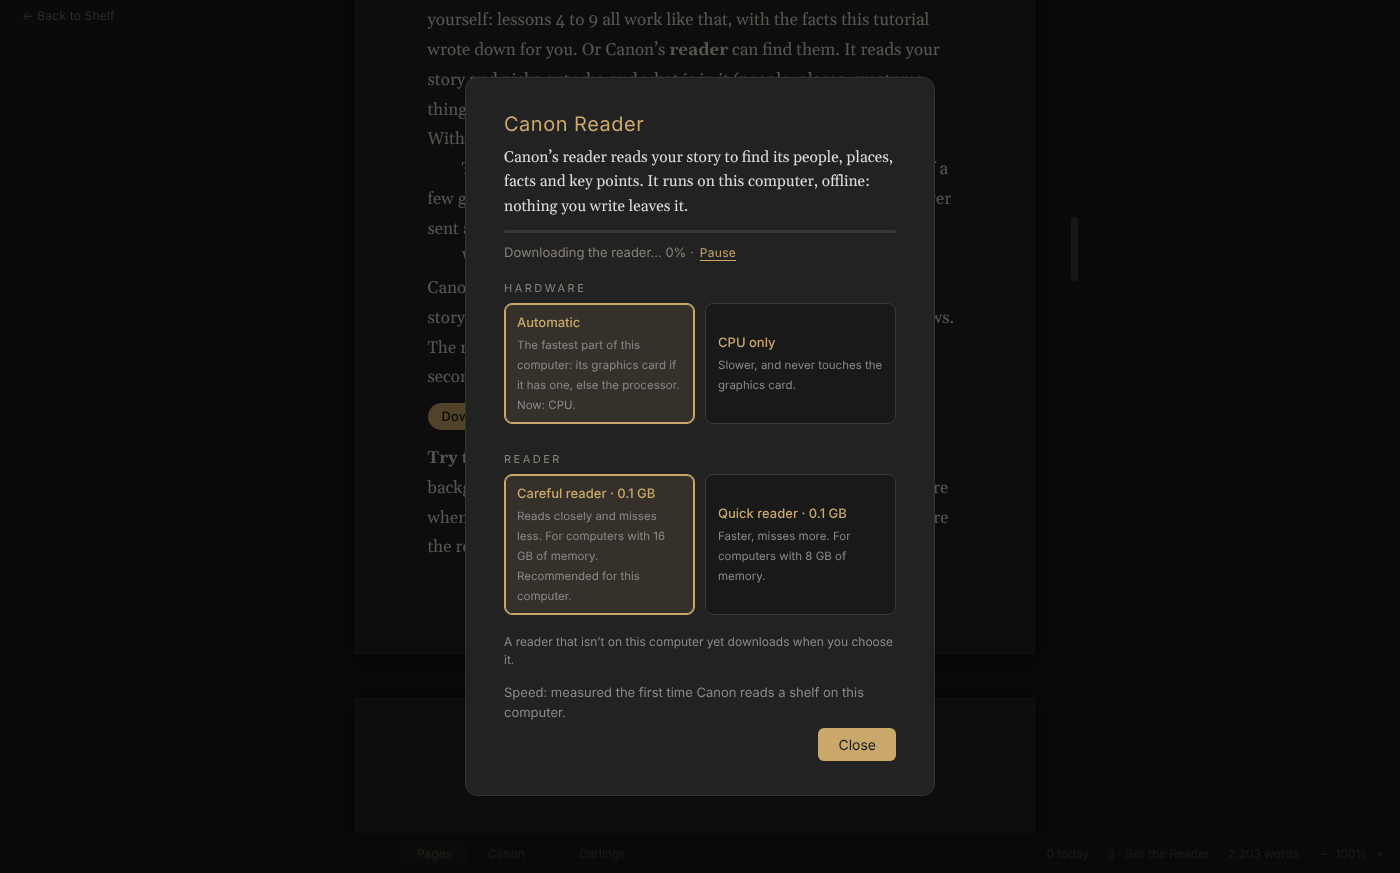
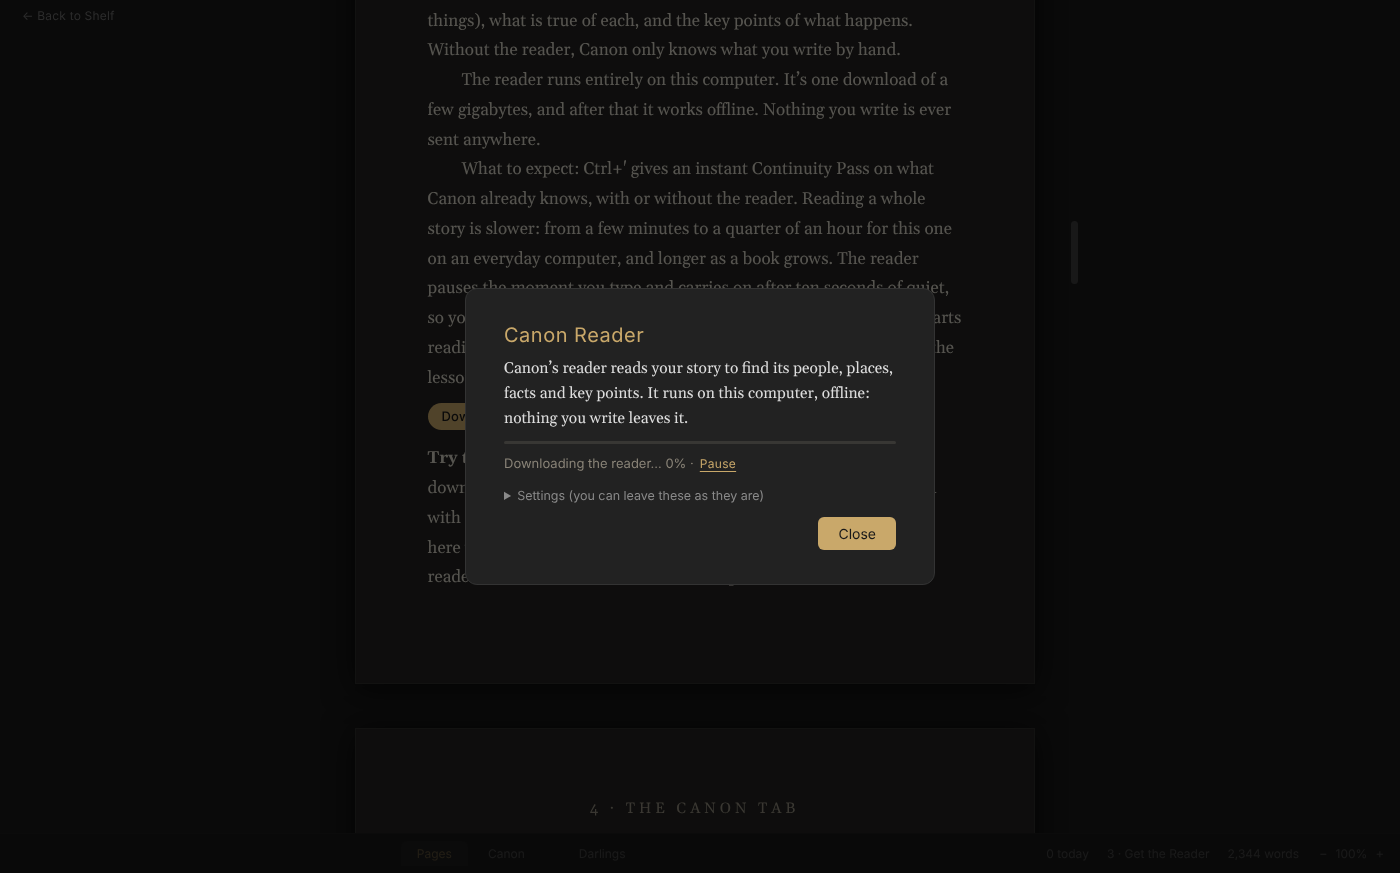
Tutorial text matches the screen; e2e for the failed reader and undo; screens; docs
Lesson 3 says Canon waits for lesson 10 here and how long reading takes;
lesson 4 notes the tab can quote Chapter 3; lesson 7 follows the entry's
Edit → Change It Across the Series? route; lesson 8 says where to type.

Claude-Session: https://claude.ai/code/session_01Uymcuup9eK8coCqa1NBqGH

diff --git a/scripts/canon.e2e.js b/scripts/canon.e2e.js
@@ -326,6 +326,8 @@ test('the reader, always findable: Reader ready · CPU at the top of an entry; H
   assert.deepEqual(await js(`[...document.querySelectorAll('#canon-reader .fr-choice.sel strong')].map((b) => b.textContent)`), ['Automatic', (tier === 'careful' ? 'Careful' : 'Quick') + ' reader · 0.1 GB']);
   assert.match(await js(`document.querySelector('#canon-reader').textContent`), /Now: CPU\./);
   assert.match(await js(`document.querySelector('#canon-reader .rs-speed').textContent`), /^Measured here: the reader reads about [\d,]+ words a minute\.$/);
+  await js(`document.querySelector('#canon-reader .rs-more').open = true`);
+  await tick(150);
   await shot('canon-reader-settings.png');
   // CPU only is kept in settings.json, and Automatic takes it away again
   await js(`[...document.querySelectorAll('#canon-reader .fr-choice')].find((b) => b.textContent.startsWith('CPU only')).click()`);
@@ -340,7 +342,16 @@ test('the reader, always findable: Reader ready · CPU at the top of an entry; H
   await until(`!!document.querySelector('#canon-reader')`);
   await js(`document.querySelector('#canon-reader .rs-close').click()`);
   await until(`!document.querySelector('#canon-reader')`);
+  // a reader that couldn't start here: said in one line, Try Again and Reader settings, never a dead end
+  await js(`canon.reader.failed = { tier: canon.reader.installed }; canonReaderRedraw()`);
+  await until(`/^The reader couldn’t start on this computer\. Try AgainReader settings$/.test(document.querySelector('#canon-view .cn-reader-line').textContent)`);
   await js(`canonShown = null; renderCanon()`);
+  await until(`!!document.querySelector('#canon-view .cn-failed')`);
+  assert.deepEqual(await js(`[...document.querySelectorAll('#canon-view .cn-failed button')].map((b) => b.textContent)`), ['Try Again', 'Reader settings']);
+  await tick(200);
+  await shot('canon-reader-failed.png');
+  await js(`document.querySelector('#canon-view .cn-failed button').click()`);
+  await until(`!canon.reader.failed && !!document.querySelector('#canon-view .cn-read')`);
 });
 
 const chapterFiles = () => ['c1', 'c2', 'c3'].map((c) => fs.readFileSync(path.join(LIB, SALT, 'chapters', c + '.html'), 'utf8'));
@@ -1209,6 +1220,8 @@ part('tutorial', 'lesson 3: Get the Reader, its button in the page starts the do
   await js(`[...document.querySelectorAll('#canon-view .cn-reader-line button')].find((b) => b.textContent === 'Pause').click()`);
   await until(`/^The reader’s download is paused at \\d+% · Resume/.test(document.querySelector('#canon-view .cn-reader-line')?.textContent)`);
   assert.equal(await js(`canonRdr.installed`), null);
+  // the Tutorial's Canon isn't read when the reader arrives: its lessons say when
+  assert.equal(await js(`canonIsTutorial() && !canonAutoRead()`), true);
 });
 
 part('tutorial', 'lessons 4 and 5, no reader: Juniper\'s source opens Chapter 1 lit; Hesketh\'s Story so far; ⌘\' finds the three slips, two fixed, one Not a slip', async () => {
@@ -1268,8 +1281,11 @@ part('tutorial', 'lessons 7 and 8, no reader: Juniper made a stallion through a 
   assert.ok(await js(`canonReview.items.some((x) => x.span === 'her' && x.to === 'his')`));
   await js(`[...[...document.querySelectorAll('#canon-side .cs-review')][0].querySelectorAll('button')].find((b) => b.textContent === 'Apply').click()`);
   await until(`canonReview.items[0].state === 'applied'`);
-  await js(`document.execCommand('undo')`);
+  // ⌘Z from the Canon tab: the words go back, and the card says so again
+  await js(`switchTab('canon')`);
+  await js(`structuralUndo()`);
   await until(`canonReview.items[0].state === 'todo'`);
+  if (await js(`currentTab !== 'manuscript'`)) await js(`switchTab('manuscript')`);
   await js(`[...document.querySelectorAll('#canon-side button')].find((b) => b.textContent === 'Stop Reviewing').click()`);
   await until(`!canonReview`);
   await js(`switchTab('canon')`);

diff --git a/tutorial/start-here/chapters/l03.html b/tutorial/start-here/chapters/l03.html
@@ -1,5 +1,5 @@
 <p>Canon can know your world in two ways. You can write its facts down yourself: lessons 4 to 9 all work like that, with the facts this tutorial wrote down for you. Or Canon’s <b>reader</b> can find them. It reads your story and picks out who and what is in it (people, places, creatures, things), what is true of each, and the key points of what happens. Without the reader, Canon only knows what you write by hand.</p>
 <p>The reader runs entirely on this computer. It’s one download of a few gigabytes, and after that it works offline. Nothing you write is ever sent anywhere.</p>
-<p>What to expect: ⌘' gives an instant Continuity Pass on what Canon already knows, with or without the reader. Reading a whole story is slower: a few minutes for this one, and longer as a book grows. The reader pauses the moment you type and carries on after ten seconds of quiet, so you can keep writing all the while.</p>
+<p>What to expect: ⌘' gives an instant Continuity Pass on what Canon already knows, with or without the reader. Reading a whole story is slower: from a few minutes to a quarter of an hour for this one on an everyday computer, and longer as a book grows. The reader pauses the moment you type and carries on after ten seconds of quiet, so you can keep writing all the while. On your own shelves Canon starts reading as soon as the reader arrives; here it waits for lesson 10, so the lessons in between find the world as they describe it.</p>
 <p class="flush"><a href="neo:reader">Download the reader</a></p>
-<p class="flush"><b>Try this:</b> click <b>Download the reader</b>. It carries on in the background while you work through the next lessons; come back here when it’s done. The line at the top of the Canon tab always says where the reader stands, and Help → Canon Reader… shows it too.</p>
+<p class="flush"><b>Try this:</b> click <b>Download the reader</b>. A small window shows the download; its settings can be left as they are, so close it and carry on with lesson 4. The download goes on in the background; come back here when it’s done. Help → Canon Reader… always says where the reader stands, and so will a line at the top of the Canon tab.</p>

diff --git a/tutorial/start-here/chapters/l07.html b/tutorial/start-here/chapters/l07.html
@@ -1,4 +1,4 @@
 <p>Sometimes the slip is the fact. You decide Juniper should have been a stallion all along. Canon can find every line that says otherwise, across every book on the shelf, and let you change them one at a time.</p>
-<p>Hover a slip about Juniper and choose <b>Juniper is now male…</b>, or change the fact on Juniper’s entry. Canon asks which word you mean (stallion, gelding, colt, or just male), then shows a review list: each passage, with the change marked. Apply it, Skip it, or Edit… to put it in your own words. Lines that need more than a word swapped say so, and wait for you.</p>
+<p>On the Canon tab, open Juniper and hover the fact <b>Sex: female (mare)</b>. Choose <b>Edit</b>, change it to <i>Sex: stallion</i> and press Enter. Canon asks <b>Change It Across the Series?</b>: <b>Find Passages</b> shows a review list in the right-hand pane, each passage with the change marked; <b>Just Change the Fact</b> leaves the books alone. In the list, Apply a change, Skip it, or Edit… to put it in your own words. Lines that need more than a word swapped say so, and wait for you. (A slip about Juniper, when there is one, offers the same from its popover: <b>Juniper is now male…</b>)</p>
 <p>Before the first change in each book, NEO takes a snapshot. ⌘Z undoes a change; Darlings → Snapshots brings back the whole book as it was.</p>
-<p class="flush"><b>Try this:</b> make Juniper a stallion. Apply one change, Skip one, then press ⌘Z and watch the change come back to the list.</p>
+<p class="flush"><b>Try this:</b> make Juniper a stallion. Apply one change, Skip one, then press ⌘Z and watch the change you applied come back to the list.</p>

diff --git a/tutorial/start-here/chapters/l04.html b/tutorial/start-here/chapters/l04.html
@@ -1,5 +1,5 @@
 <p class="flush"><b>Before this lesson,</b> read Chapter 2 of <i>Across the Saltings</i>. It’s short. Then come back.</p>
-<p>Every book has a Canon tab at the bottom of the window, between Outline and Darlings. On this shelf it holds six entries already: Wren Calloway, Juniper, Hesketh, Ballast, Marrowby and the Saltings. No reader needed: the tutorial wrote them down for you.</p>
+<p>Every book has a Canon tab at the bottom of the window, just before Darlings. On this shelf it holds six entries already: Wren Calloway, Juniper, Hesketh, Ballast, Marrowby and the Saltings. No reader needed: the tutorial wrote them down for you. (Canon knows the whole story, so an entry may quote Chapter 3 as well. If you’d rather not peek, finish the story first.)</p>
 <p>The entries are listed in the pane on the left, by kind, and the pane on the right holds Needs You and a small map of the world. On the Canon tab both stay open; the small circle at the top of a pane unpins it. Click an entry and the page shows its facts. The dot beside a fact says how far to trust it: filled when Canon checked it against its source, hollow when it hasn’t yet, a pen nib when you wrote it yourself.</p>
 <p>Under each fact is its source, the exact words from the story. Click a source and NEO opens that chapter with the words lit.</p>
 <p>Below the facts, <b>Story so far</b> lists what has happened to them, a line for each key point with its passage, in reading order. The reader writes these as it reads; a few came with the tutorial.</p>

diff --git a/tutorial/start-here/chapters/l08.html b/tutorial/start-here/chapters/l08.html
@@ -2,4 +2,4 @@
 <p>In an entry, the part called <b>In my words</b> is yours alone; Canon never writes there. Type a name in double square brackets, like [[Juniper]], and it becomes a link. The entry it points to lists the link under <b>Linked from</b>. Below that, <b>Mentioned in</b> lists every passage that names the entry, in reading order.</p>
 <p>A link to a name with no entry yet is underlined with dots. Click it to make the entry.</p>
 <p>While you write, the right-hand pane shows <b>In this chapter</b>: who and what the chapter names, with the people in the paragraph you’re writing picked out.</p>
-<p class="flush"><b>Try this:</b> open Wren Calloway’s entry and, under In my words, type: <i>Carries a letter for [[Odile Fenn]].</i> Click the new link and make an entry for her.</p>
+<p class="flush"><b>Try this:</b> open Wren Calloway’s entry. Under <b>In my words</b> there is a line already; click at the very end of it, press Enter, and type: <i>Carries a letter for [[Odile Fenn]].</i> Click the new link and make an entry for her. (If Odile already has one, the link simply opens it.)</p>

diff --git a/AGENTS.md b/AGENTS.md
@@ -52,8 +52,8 @@ A shelf can keep a Canon: its people, places, creatures and rules, each fact cit
 - Outside the library, in Electron `userData`: `models/` (the downloaded reader) and `canon-cache/<canonId>/index.json`, this device's cache of the reader's proposals and answers per paragraph, so an unchanged paragraph isn't asked again. It is never in the library; deleting it costs only a slower next reading.
 - The Canon tab shows on every book. On a shelf without a Canon it is an offer (`canonInvite`: Keep a Canon for “{shelf}”, and Open the Tutorial). On a shelf that keeps one, both panes open pinned (entries left, Needs You and the map right) until the writer unpins one there: `panePins`, kept per device in `localStorage` `neo-pinned-panes` as `canonNav`/`canonSide`, apart from the Manuscript's own `nav`/`side` (which stay hover-hidden by default). Needs You shows without a reader too.
 - The reader is always findable (`canonRdr`, READER section in CANON): a line at the top of every Canon page (`canonReaderLine`: No reader yet — Download (n GB) / Downloading… n% · Pause / Reader ready · {device}, and Reader settings), Help → Canon Reader… (`showCanonReader`, also found by ⌘K), and in a pass's pane, when it checked less for want of one, `canonPassReader` (Some checks need the reader. Download it…). A page link `<a href="neo:reader">` (the Tutorial's) starts the download and shows that window; `captureBody` keeps it.
-- Hardware: `canon-worker.js` asks node-llama-cpp for `gpu: 'auto'` (Metal on Apple silicon, CUDA or Vulkan elsewhere, else the CPU) and `gpuLayers: 'auto'`; a GPU that won't start or a model that won't fit falls back to the CPU and main logs it. `probe` reports the backend, device names and VRAM, kept in `settings.json` `readerDevice` (probed the first time the reader's status is asked, never at launch). Reader settings keep `readerHardware` ('cpu' for CPU only; Automatic is the default) and `readerChoice` (careful/quick; a choice not on disk is downloaded). `readerPick` in `main.js` recommends: a GPU with 6 GB or Apple silicon with 16 GB → careful, else by memory. Packaging leaves out the CUDA prebuilts (181–358 MB each); NVIDIA cards run through Vulkan, which ships on Windows and Linux; Metal is in the mac binary.
-- Welcome and Tutorial (WELCOME AND THE TUTORIAL in `app.js`): the welcome sheet shows once per computer on the shelf at launch (`settings.json` `canonWelcome`, `welcome:seen`). `tutorial:open` in `main.js` copies `tutorial/` (a story, the Start Here notebook, a pre-built Canon) under new ids, filling `@LESSONS@`/`@STORY@`/`@SHELF@` and writing ⌘ keys as Ctrl+ off macOS; the window adds the shelf (`shelf.tutorial` holds its two book ids). Opened again, the same shelf; afresh, the old one's books leave the shelves whole. `scripts/tutorial.test.js` holds the story to its three seeded slips and the lessons to the story's pace: Chapter 1 with lesson 2, Chapter 2 before lesson 4, Chapter 3 before lesson 5 (the pass), so no lesson uses a chapter not yet read. Lesson 3 (Get the Reader) and lesson 10 carry the `neo:reader` button; every other Try this works without a reader, and the e2e's `tutorial` part walks them. Quiet checks run without a reader too, on the facts kept by hand.
+- Hardware: `canon-worker.js` asks node-llama-cpp for `gpu: 'auto'` (Metal on Apple silicon, CUDA or Vulkan elsewhere, else the CPU) and `gpuLayers: 'auto'`; a GPU that won't start or a model that won't fit falls back to the CPU and main logs it. `probe` reports the backend, device names and VRAM, kept in `settings.json` `readerDevice` (probed the first time the reader's status is asked, never at launch). Reader settings keep `readerHardware` ('cpu' for CPU only; Automatic is the default) and `readerChoice` (careful/quick; a choice not on disk is downloaded). `readerPick` in `main.js` recommends: a GPU with 6 GB or Apple silicon with 16 GB → careful; on the processor alone → quick (8 GB and up), because in Electron's processes Chromium's allocator refuses one block over 2 GiB and the careful reader's CPU weights need one (the worker dies, exit 5; plain Node loads it). A reader that can't start (`canonLoadModel`: Automatic tried, then the CPU once) is kept as `readerFailed` in `settings.json`: passes and quiet checks run without it (`readerFailed: true` in the answer, a line in the pane), Read the Shelf says so with Try Again and Reader settings, and nothing tries it again until Try Again or a settings change. Packaging leaves out the CUDA prebuilts (181–358 MB each); NVIDIA cards run through Vulkan, which ships on Windows and Linux; Metal is in the mac binary.
+- Welcome and Tutorial (WELCOME AND THE TUTORIAL in `app.js`): the welcome sheet shows once per computer on the shelf at launch (`settings.json` `canonWelcome`, `welcome:seen`). `tutorial:open` in `main.js` copies `tutorial/` (a story, the Start Here notebook, a pre-built Canon) under new ids, filling `@LESSONS@`/`@STORY@`/`@SHELF@` and writing ⌘ keys as Ctrl+ off macOS; the window adds the shelf (`shelf.tutorial` holds its two book ids). Opened again, the same shelf; afresh, the old one's books leave the shelves whole. `scripts/tutorial.test.js` holds the story to its three seeded slips and the lessons to the story's pace: Chapter 1 with lesson 2, Chapter 2 before lesson 4, Chapter 3 before lesson 5 (the pass), so no lesson uses a chapter not yet read. Lesson 3 (Get the Reader) and lesson 10 carry the `neo:reader` button; the reader arriving never starts Read the Shelf on the Tutorial's shelf (`canonAutoRead`), so lessons 4–9 find its world as written; every other Try this works without a reader, and the e2e's `tutorial` part walks them. Quiet checks run without a reader too, on the facts kept by hand.
 - First said, first kept (`firstCome` in `canon.js`, ACCURACY.md): a proposal that gets through the gates (verbatim quote, value word in it, entity tied by rule or by the reader's double answer) is checked without asking; the first value in reading order wins, the writer's Notes and notebook pages before the books. A later value that differs is left out of the entry: it is the pass's slip. What fails a gate is left out quietly (`dropped` in the cache says why), never asked. Needs You holds only the writer's notes against the prose (*Which is right?*, every value with its passage) and what is only said or planned.
 - Story so far (STORY.md): with a reader, each changed story paragraph is asked for 0–2 key points (`events`); `gateEvent` keeps only a verbatim quote outside speech, each who named in it or meant by its pronoun (`referent`), and no word the writer didn't write. They live in each entry's `.md` under `## Story so far` as `· Canon’s note` lines whose source carries `note:<hash>`; a line whose words no longer match the hash, or has no marker, is the writer's and is never rewritten. A chapter read again has its notes made afresh (`canon.json` `story` marks the chapters done). In a pass, `deedSlips` asks the reader whether a later sentence gives an earlier key point's deed to someone else (`contradicts`): yes is a slip on the name with the plain name swap as its fix, unclear or the Quick reader is Worth a look, no reader is nothing. Events are an index, never manuscript text.
 - Reading pauses while the writer types and resumes after 10 s without a key (`CANON_RESUME_MS`); the quiet check runs after a 90 s pause in typing, or on ⌘' (Ctrl+'). A quiet check also runs while a pass's marks are up (not while the pass is still checking), adding what's new.

diff --git a/docs/semantics/PRODUCT.md b/docs/semantics/PRODUCT.md
@@ -125,7 +125,7 @@ All strings go through `t()`. Menu items are new entries in existing menus.
    >
    > You can keep writing while it downloads.
 
-   The recommendation is picked from the graphics card and memory (a GPU with 6 GB of its own, or Apple silicon with 16 GB → careful; otherwise 16 GB+ → careful; 8 GB → quick; under 8 GB → "This computer is short on memory for the reader. You can still keep a Canon by hand."). The reader runs on the best hardware there is (Metal, CUDA or Vulkan, else the processor) without asking; **Reader settings** (Help → Canon Reader…, or the link on the reader line) lets an advanced writer choose *Automatic* or *CPU only*, *Careful* or *Quick* (a reader not on the computer is downloaded), and shows the speed measured here. A small embedding model is part of the same download; the writer never sees it as a separate item.
+   The recommendation is picked from the graphics card and memory (a GPU with 6 GB of its own, or Apple silicon with 16 GB → careful; on the processor alone, 8 GB → quick, since the careful reader can't start inside NEO there; under 8 GB → "This computer is short on memory for the reader. You can still keep a Canon by hand."). The reader runs on the best hardware there is (Metal, CUDA or Vulkan, else the processor) without asking; **Reader settings** (Help → Canon Reader…, or the link on the reader line) lets an advanced writer choose *Automatic* or *CPU only*, *Careful* or *Quick* (a reader not on the computer is downloaded), and shows the speed measured here (folded under *Settings*, which can be left as they are). A reader that can't start on the computer is never a dead end: the checks run without it and say so in one line, and Read the Shelf offers **Try Again** and **Reader settings**. A small embedding model is part of the same download; the writer never sees it as a separate item.
 4. Download: a thin bar in the setup page only — "Downloading the reader · 1.8 of 5.2 GB · about 6 minutes". Resumable; checksum-verified; **Pause**/**Resume**. Leaving the tab doesn't stop it. No notification on completion — the page simply reads "The reader is ready." when next opened.
 5. Offline at download time: "NEO can't reach the download right now. Try again when you're online — everything else keeps working." with **Try Again**.
 6. Failed checksum: "The download arrived damaged. NEO threw it away. [Download Again]".

diff --git a/docs/semantics/ARCHITECTURE.md b/docs/semantics/ARCHITECTURE.md
@@ -358,7 +358,7 @@ window: side pane "Review Changes · N passages in M books"
 
 Each row pins `resolve/<commit sha>/<file>`, byte size and sha256 (Hugging Face shows the LFS sha256). Qwen2.5-3B is excluded (research licence). Sizes in copy come from the catalogue, not the strings in PRODUCT.md (5.2/2.4 GB were placeholders).
 
-Recommendation (`readerPick`): a GPU with ≥ 6 GB of its own, or Apple silicon with ≥ 16 GB → careful; otherwise from `os.totalmem()`: ≥ 16 GB → careful; ≥ 8 GB → quick; below → "short on memory". The GPU is found by the worker's `probe` (node-llama-cpp `gpu: 'auto'`), kept in `settings.json` `readerDevice`.
+Recommendation (`readerPick`): a GPU with ≥ 6 GB of its own, or Apple silicon with ≥ 16 GB → careful; on the processor alone ≥ 8 GB → quick (the careful reader's CPU buffer is one ~2.5 GB allocation, which Chromium's PartitionAlloc refuses in a utilityProcess: the worker exits with code 5, SIGILL under ELECTRON_RUN_AS_NODE; plain Node's glibc malloc is fine, `strace` shows the 2,539,569,152-byte anonymous mmap); below 8 GB → "short on memory". The GPU is found by the worker's `probe` (node-llama-cpp `gpu: 'auto'`), kept in `settings.json` `readerDevice`.
 
 ### 5.2 Download
 
